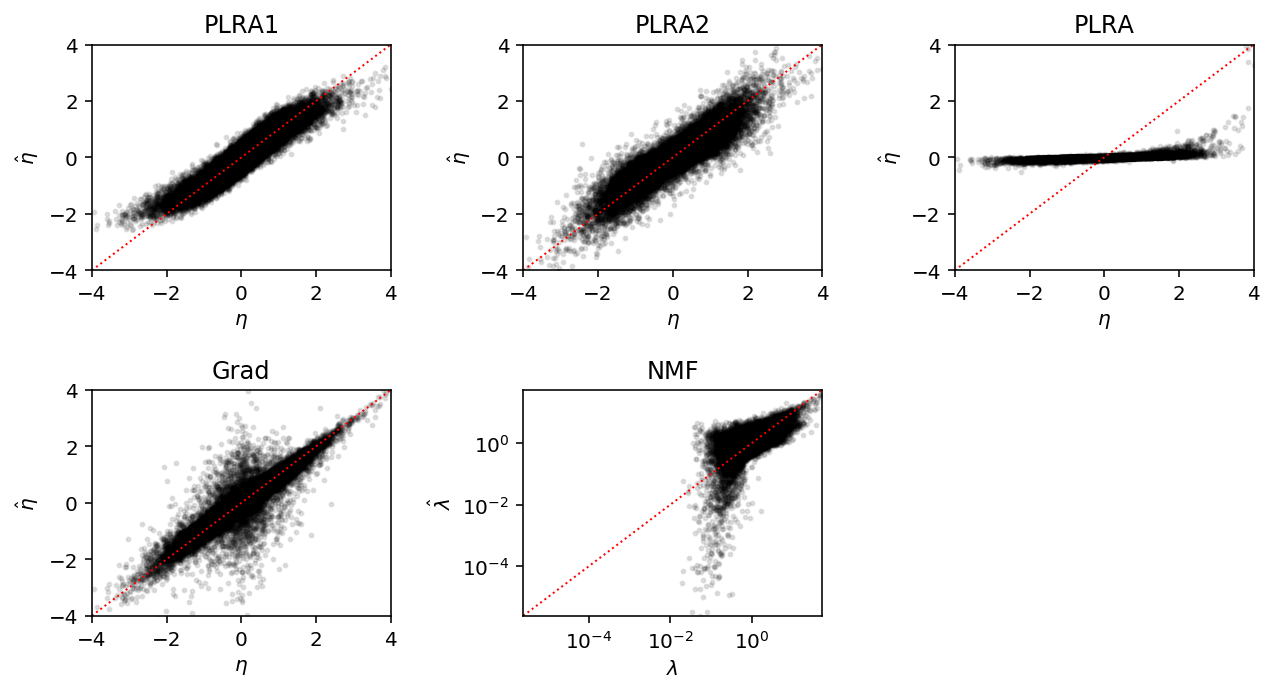
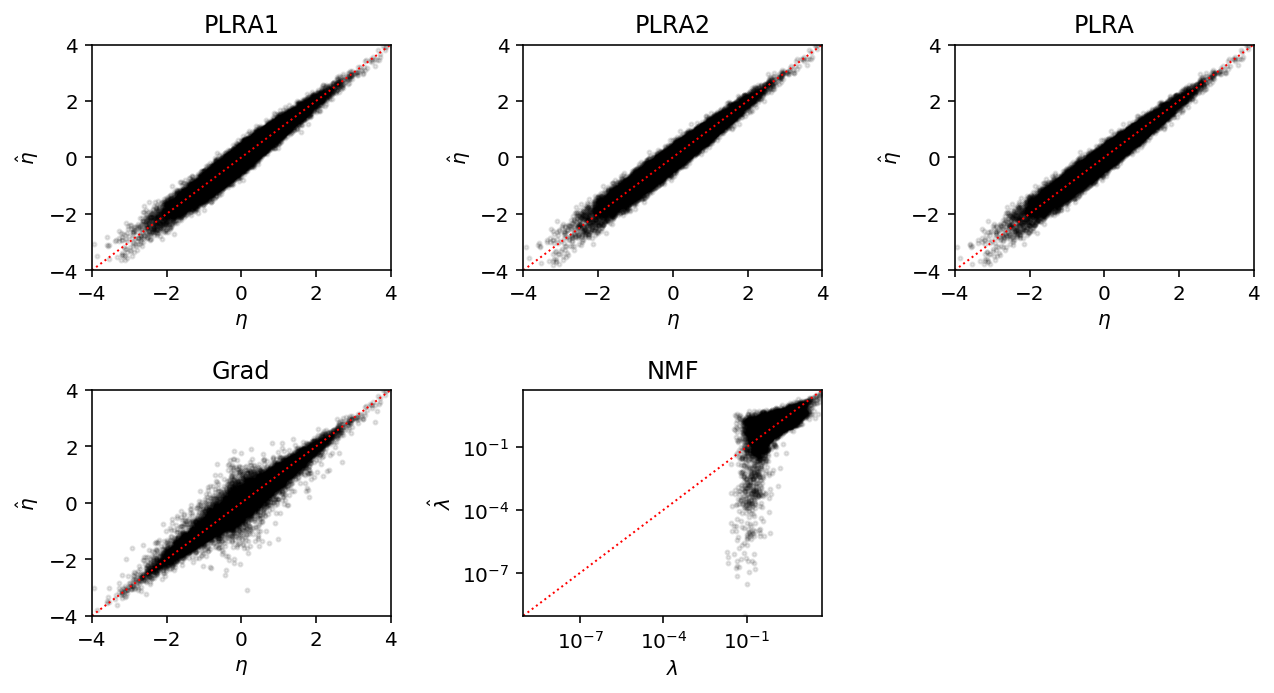
Fix WLRA convergence

diff --git a/docs/wlra.html b/docs/wlra.html
@@ -1,7 +1,7 @@
 <!DOCTYPE html>
 <html lang="en">
 <head>
-<!-- 2018-10-08 Mon 18:14 -->
+<!-- 2018-10-09 Tue 16:04 -->
 <meta charset="utf-8">
 <meta name="viewport" content="width=device-width, initial-scale=1">
 <title>Weighted low rank approximation</title>
@@ -263,17 +263,17 @@ for the JavaScript code in this tag.
 <li><a href="#org1010fdb">EM algorithm</a></li>
 <li><a href="#orgdd7ac38">Alternative derivation</a></li>
 <li><a href="#orgb462a31">Maximizing non-Gaussian likelihoods</a></li>
-<li><a href="#orgda41c3a">Imputing missing values</a></li>
-<li><a href="#org315bd15">Choosing the rank of the approximation</a></li>
+<li><a href="#orgc035e15">Imputing missing values</a></li>
+<li><a href="#org15db90d">Choosing the rank of the approximation</a></li>
 </ul>
 </li>
 <li><a href="#org643a7f6">Results</a>
 <ul>
 <li><a href="#org31c72cd">Recovering low rank structure</a></li>
 <li><a href="#org64afc90">Explaining training data</a></li>
-<li><a href="#orgc035e15">Imputing missing values</a></li>
+<li><a href="#org622533c">Imputing missing values</a></li>
 <li><a href="#orgb6aef17">Convergence</a></li>
-<li><a href="#org15db90d">Choosing the rank of the approximation</a></li>
+<li><a href="#orgc1ad970">Choosing the rank of the approximation</a></li>
 <li><a href="#orgd780580">Explaining held out data</a></li>
 </ul>
 </li>
@@ -533,9 +533,9 @@ where \(S(\cdot)\) denotes the sigmoid function.
 </div>
 </div>
 
-<div id="outline-container-orgda41c3a" class="outline-3">
-<h3 id="orgda41c3a">Imputing missing values</h3>
-<div class="outline-text-3" id="text-orgda41c3a">
+<div id="outline-container-orgc035e15" class="outline-3">
+<h3 id="orgc035e15">Imputing missing values</h3>
+<div class="outline-text-3" id="text-orgc035e15">
 <p>
 The EM algorithm for WLRA supports missing values by setting \(w_{ij} =
    0\).
@@ -550,9 +550,9 @@ presence/absence. We can do this by using weights \(\tilde{\mathbf{W}} \circ
 </div>
 </div>
 
-<div id="outline-container-org315bd15" class="outline-3">
-<h3 id="org315bd15">Choosing the rank of the approximation</h3>
-<div class="outline-text-3" id="text-org315bd15">
+<div id="outline-container-org15db90d" class="outline-3">
+<h3 id="org15db90d">Choosing the rank of the approximation</h3>
+<div class="outline-text-3" id="text-org15db90d">
 <p>
 The most obvious way to pick an optimal rank is to use cross-validation:
 hold out some samples, and evaluate the likelihood of the held-out samples
@@ -733,22 +733,19 @@ estimated parameters.
   <span class="org-keyword">return</span> st.poisson(mu=nmf(x, rank)).logpmf(x).<span class="org-builtin">sum</span>()
 
 <span class="org-keyword">def</span> <span class="org-function-name">training_score_grad</span>(x, rank):
-  <span class="org-keyword">import</span> wlra.pois
-  <span class="org-variable-name">m</span> = (wlra.pois.PoissonFA(n_samples=200, n_features=300, n_components=rank)
-       .fit(x, atol=1e-2, max_epochs=10000))
+  <span class="org-keyword">import</span> wlra.grad
+  <span class="org-variable-name">m</span> = (wlra.grad.PoissonFA(n_samples=200, n_features=300, n_components=rank)
+       .fit(x, atol=1e-3, max_epochs=10000))
   <span class="org-keyword">return</span> st.poisson(mu=np.exp(m.L.dot(m.F))).logpmf(x).<span class="org-builtin">sum</span>()
 
 <span class="org-keyword">def</span> <span class="org-function-name">training_score_plra</span>(x, rank):
   <span class="org-keyword">try</span>:
-    <span class="org-keyword">return</span> st.poisson(mu=np.exp(wlra.pois_lra(x, rank))).logpmf(x).<span class="org-builtin">sum</span>()
+    <span class="org-keyword">return</span> st.poisson(mu=np.exp(wlra.plra(x, rank=rank, max_outer_iters=100, check_converged=<span class="org-constant">True</span>))).logpmf(x).<span class="org-builtin">sum</span>()
   <span class="org-keyword">except</span> <span class="org-type">RuntimeError</span>:
     <span class="org-keyword">return</span> np.nan
 
-<span class="org-keyword">def</span> <span class="org-function-name">training_score_plra1</span>(x, rank, eps=.5):
-  <span class="org-variable-name">eta0</span> = np.where(x &gt; 0, np.log(x), np.log(eps))
-  <span class="org-variable-name">w</span> = np.exp(-eta0)
-  <span class="org-variable-name">target</span> = eta0 + x * w - 1
-  <span class="org-keyword">return</span> st.poisson(mu=np.exp(wlra.wlra(target, w, rank=rank))).logpmf(x).<span class="org-builtin">sum</span>()
+<span class="org-keyword">def</span> <span class="org-function-name">training_score_plra1</span>(x, rank):
+  <span class="org-keyword">return</span> st.poisson(mu=np.exp(wlra.plra(x, rank=rank, max_outer_iters=1))).logpmf(x).<span class="org-builtin">sum</span>()
 
 <span class="org-keyword">def</span> <span class="org-function-name">evaluate_training</span>(rank=3, eta_max=2, num_trials=10):
   <span class="org-variable-name">result</span> = []
@@ -786,7 +783,7 @@ python /project2/mstephens/aksarkar/projects/singlecell-ideas/code/pois-train-ll
 </div>
 
 <pre class="example">
-Submitted batch job 50813277
+Submitted batch job 50865668
 
 </pre>
 
@@ -807,6 +804,7 @@ Plot the performance.
 <pre class="src src-ipython"><span class="org-variable-name">methods</span> = [<span class="org-string">'NMF'</span>, <span class="org-string">'Grad'</span>, <span class="org-string">'PLRA'</span>, <span class="org-string">'PLRA1'</span>]
 plt.clf()
 plt.gcf().set_size_inches(3, 3)
+plt.yscale(<span class="org-string">'symlog'</span>, linthreshy=100)
 <span class="org-keyword">for</span> j, method <span class="org-keyword">in</span> <span class="org-builtin">enumerate</span>(methods):
   <span class="org-variable-name">y</span> = (pois_train_llik[method] - pois_train_llik[<span class="org-string">'Oracle'</span>]).dropna()
   <span class="org-variable-name">f</span> = st.gaussian_kde(y)
@@ -829,9 +827,9 @@ plt.xlabel(<span class="org-string">'Method'</span>)
 </div>
 </div>
 
-<div id="outline-container-orgc035e15" class="outline-3">
-<h3 id="orgc035e15">Imputing missing values</h3>
-<div class="outline-text-3" id="text-orgc035e15">
+<div id="outline-container-org622533c" class="outline-3">
+<h3 id="org622533c">Imputing missing values</h3>
+<div class="outline-text-3" id="text-org622533c">
 <p>
 We generate a Poisson data matrix with planted row rank structure.
 </p>
@@ -885,16 +883,16 @@ against non-negative matrix factorization (<a href="https://papers.nips.cc/paper
   <span class="org-keyword">except</span> <span class="org-type">RuntimeError</span>:
     <span class="org-keyword">return</span> [np.nan <span class="org-keyword">for</span> f <span class="org-keyword">in</span> losses]
 
-<span class="org-keyword">def</span> <span class="org-function-name">imputation_score_pois_lra</span>(x, rank, max_retries=10):
-  <span class="org-keyword">for</span> _ <span class="org-keyword">in</span> <span class="org-builtin">range</span>(max_retries):
-    <span class="org-keyword">try</span>:
-      <span class="org-variable-name">res</span> = np.exp(wlra.pois_lra(x, rank=rank, max_outer_iters=100))
-      <span class="org-keyword">return</span> loss(res[x.mask], x.data[x.mask])
-    <span class="org-keyword">except</span> <span class="org-type">RuntimeError</span> <span class="org-keyword">as</span> e:
-      <span class="org-keyword">continue</span>
-  <span class="org-keyword">import</span> uuid
-  x.dump(f<span class="org-string">'trace/{uuid.uuid1()}.pkl'</span>)
-  <span class="org-keyword">return</span> [np.nan <span class="org-keyword">for</span> f <span class="org-keyword">in</span> losses]
+<span class="org-keyword">def</span> <span class="org-function-name">imputation_score_plra1</span>(x, rank):
+  <span class="org-variable-name">res</span> = np.exp(wlra.pois_lra(x, rank=rank, max_outer_iters=1))
+  <span class="org-keyword">return</span> loss(res[x.mask], x.data[x.mask])
+
+<span class="org-keyword">def</span> <span class="org-function-name">imputation_score_plra</span>(x, rank):
+  <span class="org-keyword">try</span>:
+    <span class="org-variable-name">res</span> = np.exp(wlra.pois_lra(x, rank=rank, max_outer_iters=100, check_converged=<span class="org-constant">True</span>))
+    <span class="org-keyword">return</span> loss(res[x.mask], x.data[x.mask])
+  <span class="org-keyword">except</span> <span class="org-type">RuntimeError</span>:
+    <span class="org-keyword">return</span> [np.nan <span class="org-keyword">for</span> f <span class="org-keyword">in</span> losses]
 
 <span class="org-keyword">def</span> <span class="org-function-name">evaluate_pois_imputation</span>(rank=3, holdout=0.25, eta_max=<span class="org-constant">None</span>, num_trials=10):
   <span class="org-variable-name">result</span> = []
@@ -936,22 +934,21 @@ array([[ 12,  12,  11,  12,  12,  11,  11,  12,  12,  12],
 <div class="org-src-container">
 <pre class="src src-ipython">&lt;&lt;imports&gt;&gt;
 &lt;&lt;poisson-imputation&gt;&gt;
-<span class="org-variable-name">res</span> = evaluate_pois_imputation(eta_max=2.5, num_trials=100)
+<span class="org-variable-name">res</span> = evaluate_pois_imputation(eta_max=2, num_trials=100)
 res.to_csv(<span class="org-string">'/project2/mstephens/aksarkar/projects/singlecell-ideas/data/wlra/pois-imputation.txt.gz'</span>, compression=<span class="org-string">'gzip'</span>, sep=<span class="org-string">'\t'</span>)
 </pre>
 </div>
 
 <div class="org-src-container">
-<pre class="src src-sh">sbatch --partition=broadwl --job-name=pois-imputation -n1 -c8
+<pre class="src src-sh">sbatch --partition=broadwl --job-name=pois-imputation -n1 -c28 --exclusive
 <span class="org-comment-delimiter">#</span><span class="org-comment">!/bin/bash</span>
 <span class="org-builtin">source</span> activate singlecell
-rm -f /scratch/midway2/aksarkar/ideas/trace/*.pkl
 python /project2/mstephens/aksarkar/projects/singlecell-ideas/code/pois-imputation.py
 </pre>
 </div>
 
 <pre class="example">
-Submitted batch job 50501585
+Submitted batch job 50872498
 
 </pre>
 
@@ -1077,20 +1074,13 @@ Look at the estimates against the true eta for a simple problem.
 
 <div class="org-src-container">
 <pre class="src src-ipython"><span class="org-variable-name">x</span>, <span class="org-variable-name">eta</span> = simulate_pois(n=200, p=300, rank=3, eta_max=4)
-<span class="org-variable-name">eta0</span> = np.where(x &gt; 0, np.log(x), np.log(0.5))
-<span class="org-variable-name">w</span> = np.exp(-eta0)
-<span class="org-variable-name">target</span> = eta0 + x * w - 1
-<span class="org-variable-name">etahat</span> = wlra.wlra(target, w, rank=3)
+<span class="org-variable-name">etahat_plra1</span> = wlra.plra(x, rank=3, max_outer_iters=1)
+<span class="org-variable-name">etahat_plra2</span> = wlra.plra(x, rank=3, max_outer_iters=2)
+<span class="org-variable-name">etahat_plra</span> = wlra.plra(x, rank=3, max_outer_iters=100, check_converged=<span class="org-constant">True</span>)
 
-<span class="org-variable-name">w</span> = np.exp(-etahat)
-<span class="org-variable-name">target</span> = etahat + x * w - 1
-<span class="org-variable-name">etahat1</span> = wlra.wlra(target, w, rank=3)
-
-<span class="org-variable-name">etahat2</span> = wlra.pois_lra(x, rank=3)
-
-<span class="org-keyword">import</span> wlra.pois
-<span class="org-variable-name">m</span> = wlra.pois.PoissonFA(n_samples=200, n_features=300, n_components=3, log_link=<span class="org-constant">True</span>).fit(x, atol=1e-2, max_epochs=10000)
-<span class="org-variable-name">etahat3</span> = m.L.dot(m.F)
+<span class="org-keyword">import</span> wlra.grad
+<span class="org-variable-name">m</span> = wlra.grad.PoissonFA(n_samples=200, n_features=300, n_components=3, log_link=<span class="org-constant">True</span>).fit(x, atol=1e-2, max_epochs=10000)
+<span class="org-variable-name">etahat_grad</span> = m.L.dot(m.F)
 
 <span class="org-variable-name">lamhat</span> = nmf(x, 3)
 </pre>
@@ -1111,16 +1101,16 @@ plt.gcf().set_size_inches(9, 5)
 <span class="org-keyword">for</span> a <span class="org-keyword">in</span> ax.ravel()[:-2]:
   a.plot([-lim, lim], [-lim, lim], c=<span class="org-string">'r'</span>, lw=1, ls=<span class="org-string">':'</span>)
 
-ax[0][0].scatter(eta, etahat, c=<span class="org-string">'k'</span>, s=4, alpha=0.1)
+ax[0][0].scatter(eta, etahat_plra1, c=<span class="org-string">'k'</span>, s=4, alpha=0.1)
 ax[0][0].set_title(<span class="org-string">'PLRA1'</span>)
 
-ax[0][1].scatter(eta, etahat1, c=<span class="org-string">'k'</span>, s=4, alpha=0.1)
+ax[0][1].scatter(eta, etahat_plra2, c=<span class="org-string">'k'</span>, s=4, alpha=0.1)
 ax[0][1].set_title(<span class="org-string">'PLRA2'</span>)
 
-ax[0][2].scatter(eta, etahat2, c=<span class="org-string">'k'</span>, s=4, alpha=0.1)
+ax[0][2].scatter(eta, etahat_plra, c=<span class="org-string">'k'</span>, s=4, alpha=0.1)
 ax[0][2].set_title(<span class="org-string">'PLRA'</span>)
 
-ax[1][0].scatter(eta, etahat3, c=<span class="org-string">'k'</span>, s=4, alpha=0.1)
+ax[1][0].scatter(eta, etahat_grad, c=<span class="org-string">'k'</span>, s=4, alpha=0.1)
 ax[1][0].set_title(<span class="org-string">'Grad'</span>)
 
 <span class="org-variable-name">min_</span> = lamhat.<span class="org-builtin">min</span>()
@@ -1147,9 +1137,9 @@ fig.tight_layout()
 </div>
 </div>
 
-<div id="outline-container-org15db90d" class="outline-3">
-<h3 id="org15db90d">Choosing the rank of the approximation</h3>
-<div class="outline-text-3" id="text-org15db90d">
+<div id="outline-container-orgc1ad970" class="outline-3">
+<h3 id="orgc1ad970">Choosing the rank of the approximation</h3>
+<div class="outline-text-3" id="text-orgc1ad970">
 <p>
 We generate a Poisson data matrix with planted row rank structure.
 </p>
@@ -1412,7 +1402,7 @@ Submitted batch job 50610089
 </div>
 <div id="postamble" class="status">
 <p class="author">Author: Abhishek Sarkar</p>
-<p class="date">Created: 2018-10-08 Mon 18:14</p>
+<p class="date">Created: 2018-10-09 Tue 16:04</p>
 <p class="validation"><a href="http://validator.w3.org/check?uri=referer">Validate</a></p>
 </div>
 </body>
